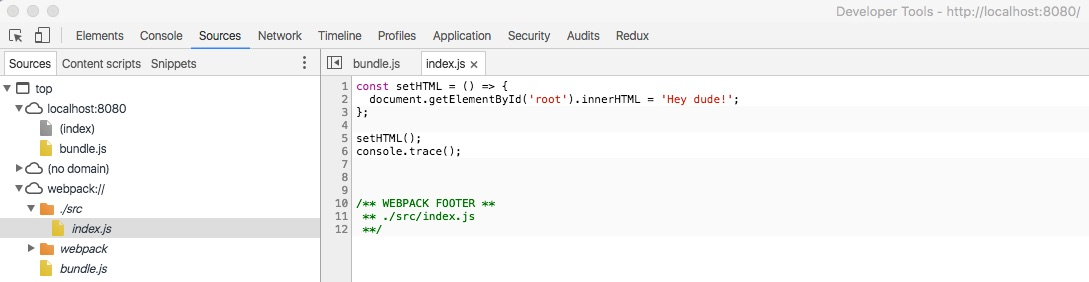
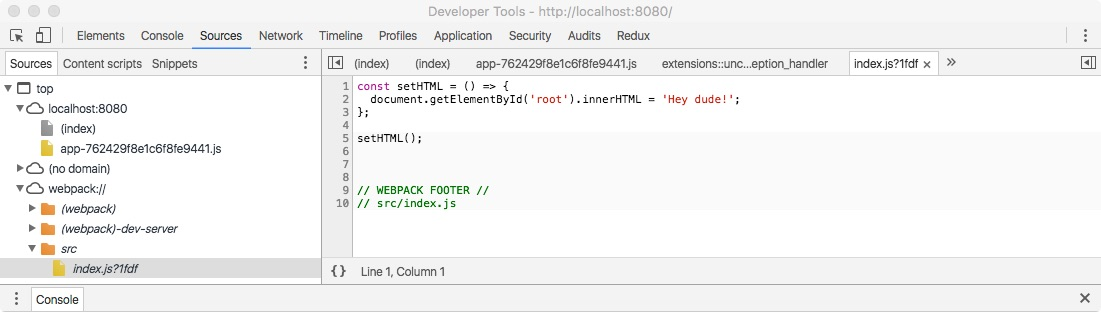
second pass on part-2, updated up to styles section

Changed region(s): [[0.0, 0.0851, 1.0, 1.0], [0.7493, 0.0284, 0.9991, 0.0567], [0.3747, 0.0284, 0.6244, 0.0567]]

diff --git a/static/blog/react-starter-kit/part-2.md b/static/blog/react-starter-kit/part-2.md
@@ -1,23 +1,26 @@
 In the last part we created our project, added it to source control with Git and GitHub, initialized NPM for dependency management, and added ESLint so we can write well-formatted code.
 
 ## 5. Configure Webpack for development
-Webpack is an amazing bundling tool written with SPAs in mind.  tWebpack by itself doesn't actually do much, the real power comes from *loaders* and *plugins*.
+Webpack is an amazing bundling tool written with SPAs in mind.  Webpack by itself doesn't actually do much, the real power comes from *loaders* and *plugins*.
 
 > #### What's a bundling tool?  
 Writing all of our application code in separate *modules* makes development much more efficient and enjoyable, but when we actually deploy our code we want to optimize it as much as possible.  Reducing the number of files via bundling is a part of the optimization process.  Webpack enables us to do that.
 
 ##### What will we be using Webpack for during development?
 - Web Server: Webpack has an installable development server, `webpack-dev-server`, powered by Node and [Express](https://expressjs.com/) (a web framework for Node)
-  - Hot module replacement: edit our application and see the changes in realtime *without* losing the current application state! (it isn't just an automatic page refresh)
+  - Hot module replacement: edit our application and see the changes in realtime *without* losing the current application state! (it isn't just an automatic page refresh) 😲
 - Loaders: put files in, transform them, get bundle(s) out
-  - `babel-loader`: JSX/ES6/ES7 (React specific syntax and new JavaScript)--> ES5 (old, but well supported JavaScript)
+  - `babel-loader`: JSX/ES6/ES7 (JSX is React specific syntax) --> ES5 (old, but well supported JavaScript)
   - `postcss-loader`: add browser/vendor prefixes where appropriate (PostCSS does more, but this is what we'll be using it for)
   - `sass-loader`: SASS (supercharged CSS) --> regular CSS
   - `react-hot-loader`: enables us to use HMR with React
 - Plugins: add bundle related functionality
-  - `ExtractTextPlugin`: created CSS bundle
+  - `ExtractTextPlugin`: create CSS bundle
   - `HotModuleReplacementPlugin`: necessary for dev server HMR
   - `HtmlWebpackPlugin`: dynamically create our HTML
+
+> [Babel](https://babeljs.io/) is a powerful tool for transforming JavaScript.  We'll see it in action shortly.
+
 
 To get started create an "index.html" file in your "src" directory with the code below.  This is telling the browser we'll be using English (`lang="en"`) and to use the [UTF-8](http://www.w3schools.com/charsets/ref_html_utf8.asp) character set (`charset="utf-8"`).  The `<div id="root"></div>` tag is where we'll inject our React app later.
 
@@ -45,9 +48,31 @@ setHTML();
 
 ```
 
-Ok, so now we have an HTML file that doesn't reference any JavaScript files and a JavaScript file that sets the inner html of our "root" `div` element.  How do we wire the two up?  Well we could just add a `script` tag to our "index.html" file to pull it in, but that doesn't give us much flexibility.  Using the `HtmlWebpackPlugin` we can have Webpack dynamically inject `script` and `link` tags for us and also have a hash appended to the name for cache busting (prevent the browser from using a cached file).
+##### What's going on here?
+- `setHTML`: we're creating a `const` (a variable that cannot be changed) that holds an arrow function that calls the `getElementById` function on the global `document` object.  Remember in our ".eslintrc" file where we told it to ignore browser related variables?  This is one of those.  The `document` object is how you interact with the web page, such as getting a reference to a DOM node like we're doing here.
+- `setHTML()`: call our function to actually change the `innerHTML` of the element with id of "root" to "Hey dude!".
 
-Let's setup Webpack now.  Create a new file in the root of your project named "webpack.config.js" with the code below.
+Ok, so now we have an HTML file that doesn't reference any JavaScript files and a JavaScript file that sets the inner html of our "root" `div` element.  How do we wire the two up?  Well we could just add a `script` tag to our "index.html" file to pull our JS in, but that doesn't give us much flexibility.  Using the `HtmlWebpackPlugin` we can have Webpack dynamically inject `script` and `link` tags for us and also have a hash appended to the name for cache busting (prevent the browser from using a cached file).
+
+#### Installation
+Let's install the packages we're going to need.  You'll see webpack installed twice, once locally, then again globally (with the `-g` option).  We need it installed locally because we'll need to use the package directly a little later and we need it and `webpack-dev-server` installed globally so that we can use them from the command line.
+
+```bash
+npm install --save webpack@2.1.0-beta.21 html-webpack-plugin babel-core babel-loader babel-preset-es2015 babel-preset-react babel-preset-stage-0
+npm install -g webpack@2.1.0-beta.21 webpack-dev-server@2.1.0-beta.0
+```
+
+> We're installing specific versions of `webpack@2.1.0-beta.21` and `webpack-dev-server@2.1.0-beta.0` because we want to be able to take advantage of new features that are currently still in beta.  We'll touch on this more a little later.
+
+##### Babel packages
+- `babel-core`: the main Babel engine
+- `babel-loader`: use Babel with Webpack (discussed earlier)
+- `babel-preset-es2015`: ES6 --> ES5
+- `babel-preset-react`: JSX --> ES5
+- `babel-preset-stage-0`: experimental ES7 --> ES5
+
+#### Configuration
+Now we can go ahead and begin our Webpack setup.  Create a new file in the root of your project named "webpack.config.js" with the code below.
 
 ```javascript
 const HtmlWebpackPlugin = require('html-webpack-plugin');
@@ -84,8 +109,8 @@ module.exports = {
 ```
 
 ##### What's going on here?
-- [HtmlWebpackPlugin](https://github.com/ampedandwired/html-webpack-plugin) lets us dynamically create/augment our HTML file
-- [path](https://nodejs.org/api/path.html#path_path_resolve_path) is a Node.js library for resolving file paths
+- [HtmlWebpackPlugin](https://github.com/ampedandwired/html-webpack-plugin): lets us dynamically create/augment our HTML file
+- [path](https://nodejs.org/api/path.html#path_path_resolve_path): is a Node.js library for resolving file paths
 - `module.exports`: [CommonJS](https://webpack.github.io/docs/commonjs.html) style modules.  Webpack is a Node utility and Node uses CommonJS as their module system.
   - `entry`: tell Webpack where to enter our application when bundling (use `app` as the bundle's name)
   - `module`: options affecting our modules (JS/JSX/SASS/etc.)
@@ -99,9 +124,9 @@ module.exports = {
   - `plugins`
    - `HtmlWebpackPlugin`
      - `template`: starting point for our HTML file
-     - `inject`: add a script tag to the `body` section of our "index.html" file pointing to our bundle file
+     - `inject`: which section of the "index.html" file should the plugin inject `script` tags into
 
-So we're looking for files with a ".js" extension, that are *not* in the "node_modules" folder and then transforming them with the `babel` loader (we could also write it as `loader: 'babel-loader'`).  [Babel](https://babeljs.io/) is a powerful tool for transforming JavaScript and the `babel` loader is just a way to use it with Webpack.  In order for Babel to do any transforms we need to tell it what transforms we want applied.  This is specified with Babel plugins or presets (groups of plugins).  You can configure Babel a few different ways: add a `"babel": {}`  section to your "package.json" file, specify it in your "webpack.config.js", or using a ".babelrc" file.  We'll use the last option, so create a file named ".babelrc" in the project root with the contents below.
+So we're looking for files with a ".js" extension, that are *not* in the "node_modules" folder and then transforming them with the `babel` loader (we could also write it as `loader: 'babel-loader'`).  In order for Babel to do any transforms we need to tell it what transforms we want applied.  This is specified with Babel plugins or presets (groups of plugins).  You can configure Babel a few different ways: add a `"babel": {}`  section to your "package.json" file, specify it in your "webpack.config.js", or using a ".babelrc" file.  We'll use the last option, so create a file named ".babelrc" in the project root with the contents below.
 
 ```json
 {
@@ -109,45 +134,32 @@ So we're looking for files with a ".js" extension, that are *not* in the "node_m
 }
 ```
 
-##### Presets
-- es2015: ES6 --> ES5
-- react: JSX --> ES5
-- stage-0: experimental ES7 --> ES5
-
-We're using a bunch of packages that we haven't yet installed, let's do that now.  You'll see webpack installed twice, once locally, then again globally (with the `-g` option).  We need it installed locally because we'll need to use the package directly a little later and we need it and `webpack-dev-server` installed globally so that we can use them from the command line.
-
-```bash
-npm install --save webpack@2.1.0-beta.21 babel-core babel-loader babel-preset-es2015 babel-preset-react babel-preset-stage-0
-npm install -g webpack@2.1.0-beta.21 webpack-dev-server@2.1.0-beta.0
-```
-
-> We're installing specific versions of `webpack@2.1.0-beta.21` and `webpack-dev-server@2.1.0-beta.0` because we want to be able to take advantage of new features that are currently still in beta.  We'll touch on this more a little later.
-
+#### Launch the app
 Go ahead and run the following command from the root of your project then open your browser and visit <host>:<port> (e.g. localhost:8080) to see your app.  If it worked correctly you should see "Hey dude!".
 
 ```bash
 webpack-dev-server --content-base dist/
 ```
 
-What just happened?  We started our `webpack-dev-server` which bundled up our application code into a file named something like "app-42d809adf5fa9e5d6ac5.js", put that in the "dist" folder, copied our src/index.html file into the "dist" folder, and then inserted a script tag into the `body` tag to load our bundle.  `--content-base dist/` is telling our server to serve the contents of the "dist" folder.  Awesome!
+What just happened?  We started our `webpack-dev-server` which bundled up our application code into a file named something like "app-42d809adf5fa9e5d6ac5.js", put that in the "dist" folder, copied our src/index.html file into the "dist" folder, and then inserted a script tag into the `body` tag to load our bundle.  `--content-base dist/` tells our server to serve the contents of the "dist" directory.  Awesome!
 
+#### Build the app
 Hold on a minute.  I don't see a folder named "dist" in my project though.  That's because it is all done in memory!  Want to see the files with your own eyes?  Hop back over to the command line and kill the server with `control + C`.  Now run the command below and then jump back to your text editor after it finishes....voila, there it is!
 
 ```bash
 webpack
 ```
 
-Let's get even crazier.  Go ahead and open up the "app-42d809adf5fa9e5d6ac5.js" file in the "dist" directory.  It's pretty ugly and has 75+ ESLint errors, let's fix those first.  Create a new file in the root of your project called ".eslintignore" and paste in the text below.
+#### What's going on in our bundle?
+Let's get even crazier.  Go ahead and open up the "app-42d809adf5fa9e5d6ac5.js" file in the "dist" directory.  It's pretty ugly and has a bunch of ESLint errors, let's fix those first.  Create a new file in the root of your project called ".eslintignore" and paste in the text below.  This tells ESLint to ignore everything in the "dist" directory.  If it doesn't fix your errors try reopening the file.  
 
 ```
 dist
 ```
 
-This tells ESLint to ignore everything in the "dist" directory.  If it doesn't fix your errors try reopening the file.  
+The first 70 lines or so are all Webpack related stuff for module caching so that we don't load modules more than once.  If you scroll to the bottom you'll see our application code that just adds "Hey dude!" to a div.  If you look close you'll see that our arrow function is gone and has been replaced by a regular function.  That's the ES6 --> ES5 transpilation that Babel does for us.
 
-#### What's going on in our bundle?
-The first 40 lines or so are all Webpack related stuff for module caching so that we don't load modules more than once.  If you scroll to the bottom you'll see our application code that just adds "Hey dude!" to a div.  If you look close you'll see that our arrow function is gone and has been replaced by a regular function.  That's the ES6 --> ES5 transpilation that Babel does for us.
-
+#### Minification
 Pretty cool, but what about all those comments and whitespace?  We don't want to send all that crap to our users because they don't need it and it's only going to make their downloads take longer.  Let's get rid of it.  Update your "webpack.config.js" file to look like the one below.
 
 ```javascript
@@ -189,32 +201,83 @@ module.exports = {
 
 Delete the contents of the "dist" directory then run `webpack` again to rebuild the app.  We'll automate this command a little later.
 
-Open up "app-42d809adf5fa9e5d6ac5.js" again (it'll have a new hash now).  It's just a single line now and it's really hard to read, BUT it's really minimal which is great for performance!  So we have two problems now: during development our beautiful ES6 source code now has to be debugged in minified ES5 which is tough to say the least.  If you were to view the source code from your browser's [developer tools](https://developer.chrome.com/devtools) you would see the same thing.  We can do better.
+Open up "app-42d809adf5fa9e5d6ac5.js" again (it'll have a new hash now).  It's just a single line now and it's really hard to read, BUT it's really minimal which is great for performance!  So we have two problems now: during development our beautiful ES6 source code now has to be debugged in minified ES5 which is tough to say the least.  If you were to view the source code from your browser's [developer tools](https://developer.chrome.com/devtools) (open with `option + command + i` on OSX) you would see the same thing.  We can do better.
 
-Add `devtool: 'source-map',` just above the `entry` property of your "webpack.config.js" file.  This tells Webpack to create a source map which bridges the gap between your source code and the transpiled/uglified code.  Most modern browsers support source maps for debugging...I'm using Chrome, but most browsers should perform similarly.  Fire up your dev server again with `webpack-dev-server --content-base dist/`, open up your browser dev tools, then refresh the page.  If you go to the "Sources" tab of the dev tools window you should see something similar to the images below.
+#### Source maps
+Add `devtool: 'source-map',` just above the `entry` property of your "webpack.config.js" file.  This tells Webpack to create a source map which bridges the gap between your source code and the transpiled/uglified code.  Most modern browsers support source maps for debugging...I'm using Chrome, but most browsers should perform similarly.  Fire up your dev server again with `webpack-dev-server -d --content-base dist/`, (note the new `-d` option for to enable debugging) open up your browser dev tools, then refresh the page.  If you go to the "Sources" tab of the dev tools window you should see something similar to the images below.
 
 Minified
 ![Chrome Dev Tools Minified](../../images/dev-tools-minified.jpg)
 
-Original via source maps (// TODO update this image to remove "console.trace()")
+Original via source maps
 ![Chrome Dev Tools Source Maps](../../images/dev-tools-source-map.jpg)
 
 If you want to build the source maps to disk you'll need to run the command below.
 
 ```bash
-webpack --debug
+webpack -d
 ```
 
-For now, I'm going to comment out the `UglifyJsPlugin` line since it's just going to add overhead during development.  Later when we setup our production build we'll add it back.
+#### Convenience scripts
+Manually deleting the contents of the "dist" folder is a pain in the ass.  Let's fix that.  Install `rimraf` (a library we'll use to delete the contents of our "dist" folder) then update the `scripts` section of your "package.json" file as shown below.  The `build` script lints our code, deletes the contents of "dist", sets NODE_ENV to "production", and finally builds our app.  Later on we'll use the value of NODE_ENV to conditionally apply Webpack config.
 
-Let's go ahead and add a script to our "package.json" file to make running our dev server easier.  Update the `scripts` section to resemble the one below.  Now you can fire up your dev server by running `npm start` from the command line.
+Our `lint` script runs `eslint` against our "src" and "test" directories.  We're getting ahead of the ball here by adding linting for our "test" directory which we'll add a little later.
+
+Let's also add a `start` script to fire up our dev server.
+
+```bash
+npm install --save rimraf
+```
 
 ```json
 {
-  "start": "webpack-dev-server --content-base dist/",
+  "build": "npm run lint && rimraf dist && NODE_ENV=production webpack",
+  "lint": "eslint src test",
+  "start": "webpack-dev-server -d --content-base dist/",
   "test": "echo \"Error: no test specified\" && exit 1"
 }
 ```
+
+You can now run these commands with `npm run <command>`.  `start` is a default NPM script so you can run it with `npm start` or `npm run start`.
+
+#### Tree-shaking
+Webpack 2 has a new feature known as *tree-shaking* which removes unused code during the minification step.  To demonstrate how this works create a new file named "setHTML.js" with the contents below and update "index.js" as shown.
+
+```javascript
+// src/setHTML.js
+
+const setHTML = () => {
+  document.getElementById('root').innerHTML = 'Hey dude!';
+};
+
+export default setHTML;
+export const woof = 'woof';
+
+```
+
+```javascript
+// src/index.js
+
+import setHTML from './setHTML';
+
+setHTML();
+```
+
+We've moved our `setHTML` function to a new file and export the function as the `default` export.  We've also added a named export of `woof`.  In "index.js" we're importing `setHTML`, but *NOT* importing `woof` so it isn't actually being used anywhere.
+
+Run `npm run build` to create our bundle, then open it up and search for "woof".  There are two occurrences of it, despite the fact that it doesn't actually do anything.  
+
+The `UglifyJsPlugin` attempts to do dead code elimination (tree-shaking) by default, but our configuration is preventing that from happening.  By default, Babel transpiles ES6 modules to CommonJS modules which [prevents](http://www.2ality.com/2015/12/webpack-tree-shaking.html) tree-shaking from working so we just need to tell Babel not to use CommonJS modules.  Update your ".babelrc" file as shown below.
+
+```json
+{
+  "presets": [["es2015", { "modules": false }], "react", "stage-0"]
+}
+```
+
+Go ahead and build your app again then search for "woof" in the bundle.  It's gone! 😃
+
+For now, I'm going to comment out the `UglifyJsPlugin` line since it's just going to add overhead during development.  Later when we setup our production build we'll add it back.
 
 #### Stylezzz (CSS)
 
